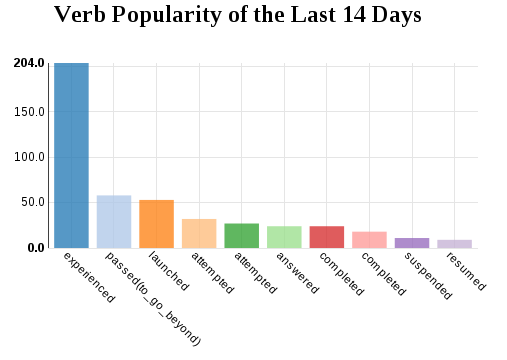
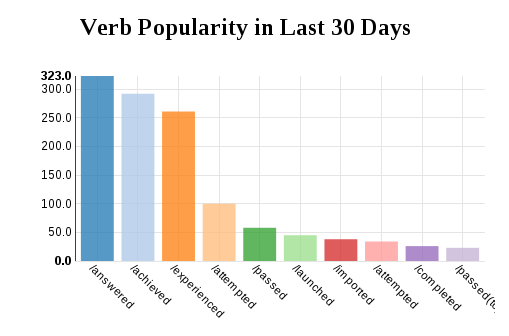
Updated README, added new example

diff --git a/livedata.html b/livedata.html
@@ -7,7 +7,7 @@
 		<script src='dist/xapidashboard.min.js'></script>
 
 		<style>
-			h1 {
+			h2 {
 				text-align: center;
 			}
 			#graphContainer {
@@ -20,12 +20,24 @@
 			function ready(){
 
 				var wrapper = ADL.XAPIWrapper;
-				var dash = new ADL.XAPIDashboard('#graphContainer svg');
+				var dash = new ADL.XAPIDashboard();
 				wrapper.changeConfig({'endpoint': 'https://lrs.adlnet.gov/xAPI/'});
 
+				var handle = setInterval(function(){
+					document.querySelector('span').innerHTML += '.';
+				}, 500);
+
 				var cutoff = new Date(Date.now()-1000*3600*24*30).toISOString();
-				dash.fetchAllStatements({since: cutoff}, wrapper, function(){
+				dash.fetchAllStatements({since: cutoff}, wrapper, function()
+				{
+					clearInterval(handle);
+					var container = document.querySelector('#graphContainer');
+					var header = document.createElement('h2');
+					header.innerHTML = 'Verb Popularity of the Last 30 Days';
+					container.insertBefore(header, container.firstChild);
+	
 					var chart = dash.createBarChart({
+						container: '#graphContainer svg',
 						groupBy: 'verb.id',
 						aggregate: ADL.count(),
 						post: function(data){
@@ -37,8 +49,8 @@
 							nvd3chart.xAxis.tickFormat(function(label){
 								var parts = /https?:\/\/.*?(\w+\.\w{2,3}).*(\/.+)$/.exec(label);
 								return parts.slice(1,3).join('');
+								//return /[^\/]+$/.exec(label)[0];
 							});
-							nvd3chart.margin({right:100});
 						}
 					});
 					chart.draw();
@@ -48,8 +60,8 @@
 		</script>
 	</head>
 	<body onload='ready()'>
+		<span id='status'>Fetching data</span>
 		<div id='graphContainer'>
-			<h1>Verb Popularity in Last 30 Days</h1>
 			<svg></svg>
 		</div>
 	</body>

diff --git a/src/dashboard.js b/src/dashboard.js
@@ -4,6 +4,12 @@
 	
 	var XAPIDashboard = function(container){
 		this.container = container;
+		try {
+			this.data = new ADL.Collection();
+		}
+		catch(e){
+			this.data = new ADL.CollectionSync();
+		}
 	}
 
 	XAPIDashboard.prototype.fetchAllStatements = function(query, wrapper, cb){
@@ -17,16 +23,10 @@
 		wrapper.getStatements(query, null, function getMore(r){
 			var response = JSON.parse(r.response);
 			
-			//Adds statements to a temp array so that addStatements is only called once
-			statementsArr.push.apply(statementsArr, response.statements);
-			
+			self.data.append(response.statements);
+
 			if(response.more){
 				wrapper.getStatements(null, response.more, getMore);
-			}
-			
-			else{
-				self.addStatements(statementsArr);
-				if(cb) cb(self.statements);
 			}
 		});
 	};
@@ -48,14 +48,7 @@
 				return;
 			}
 		}
-	
-		try{
-			this.data = new ADL.CollectionAsync(statementsArr, this.webworkerSrc);
-		}
-		catch(e){
-			this.data = new ADL.Collection(statementsArr);
-			console.log("Caught error on ADL.CollectionAsync creation, falling back to ADL.Collection ", e);
-		}
+		this.data.append(statementsArr);
 	};
 	
 	// default aggregator requires opts.xField

diff --git a/README.md b/README.md
@@ -11,6 +11,7 @@ Generating your first chart is easy. First, include the libraries:
 ```html
 <link rel='stylesheet' href='nvd3/nv.d3.css'></link>
 <script type="text/javascript" src="dist/xapidashboard.min.js"></script>
+<script type="text/javascript" src="dist/xapiCollection.min.js"></script>
 ```
 
 Next, you should fetch your data from an LRS. You can either retrieve them yourself, or use the
@@ -24,7 +25,7 @@ var dash = new ADL.XAPIDashboard(),
 
 window.onload = function(){
 	// get all statements made in the last two weeks
-	var query = {'since': new Date(Date.now() - 1000*60*60*24*14).toISOString()};
+	var query = {'since': new Date(Date.now() - 1000*60*60*24*30).toISOString()};
 	dash.fetchAllStatements(query, fetchDoneCallback);
 };
 ```
@@ -33,26 +34,32 @@ Now that your data is loaded, the real magic happens:
 
 ```javascript
 function fetchDoneCallback(){
-	dash.genBarGraph('#graphContainer svg', {
-		groupField: 'verb.id',
+	var chart = dash.createBarGraph({
+		container: '#graphContainer svg',
+		groupBy: 'verb.id',
+		aggregate: ADL.count(),
 		customize: function(chart){
-			chart.margin({'bottom': 100}).staggerLabels(false);
 			chart.xAxis.rotateLabels(45);
 			chart.xAxis.tickFormat(function(d){ return /[^\/]+$/.exec(d)[0]; });
 		}
 	});
+	chart.draw();
 }
 ```
 
-This generates a bar graph (`dash.genBarGraph`), places it in a particular place in the DOM
+This generates a bar graph (`dash.createBarGraph`), places it in a particular place in the DOM
 (`'#graphContainer svg'`), and populates it with your previously fetched data. Each bar
 corresponds with a unique value of a specified section in the statements (in this example,
-`groupField: 'verb.id'`), and each bar's height is the number of statements with that value.
+`groupBy: 'verb.id'`), and each bar's height is the number of statements with that value
+(e.g. `aggregate: ADL.count()`).
 
 An additional `customize` function is specified to format the graph labels. The customization
-is all done via the NVD3 chart library. In this case, we apply a bottom margin, tilt the labels
-45 degress so they don't overlap, and since we don't want the full verb id URIs, we strip off
-everything before the last slash.
+is all done via the NVD3 chart library. In this case, we tilt the labels 45 degress so they don't 
+overlap, and since we don't want the full verb id URIs, we strip off everything before the last
+slash.
+
+Finally, once the chart is configured, we call the `draw()` function to actually render the graph
+to the document. 
 
 After all that effort, the final result was worth it:
 
@@ -63,7 +70,8 @@ to do using the provided *Collection* methods.
 
 ## Processing the Data
 
-This package includes the *ADL.Collection* object, a powerful statement processor. Its usage is
+This package includes the *ADL.Collection* object, a powerful statement processor. It comes in two
+forms, *ADL.CollectionSync* and *ADL.CollectionAsync*. They have the same API, and their usage is
 simple. Just load your statements into it automatically like we did above:
 
 ```javascript
@@ -83,13 +91,15 @@ example, to get the list of activities performed in the set of statements, you c
 ```javascript
 var activities = statements
 	// remove statements with duplicate object ids
-	.selectDistinct('object.id')
+	.groupBy('object.id')
 	// and then pick out the ids
-	.transform(
-		ADL.Collection.getValue('object.id')
-	);
-console.log(activities.contents);
->>> ['objectId1','objectId2']
+	.select('group');
+
+// run the query, and what do you get?
+activities.exec(function(data){
+	console.log(data);
+});
+>>> [{group: 'act_id1'}, {group: 'act_id2'}]
 ```
 
 And if you wanted a list of the top 10 highest-scoring actors, you could run:
@@ -97,19 +107,23 @@ And if you wanted a list of the top 10 highest-scoring actors, you could run:
 ```javascript
 var actors = statements
 	// take all the statements for each actor
-	.groupBy('actor.name', function(subset){
-		// and find the highest score.raw
-		return subset.max('score.raw');
-	})
-	// then sort by those scores, high to low
-	.orderBy('result', 'descending')
-	// and pick out only the first (highest) 10 scores
-	.select(ADL.Collection.first(10));
-	
-console.log(groups.contents);
+	.groupBy('actor.name')
+	// get their best score
+	.max('result.score.raw')
+	// then sort the actors by those scores, high to low
+	.orderBy('max', 'descending')
+	// pick out only the first (highest) 10 scorers
+	.slice(0,10)
+	// and discard all the parts of the statements you won't be using
+	.select('group, max');
+
+// run the query, and what do you get?
+actors.exec(function(data){
+	console.log(data);
+});
 >>> 
-[{'groupValue': 'James Bond', 'result': 94},
- {'groupValue': 'Dr. No',     'result': 88},
+[{'group': 'James Bond', 'max': 94},
+ {'group': 'Dr. No',     'max': 88},
  ...
 ]
 ```
@@ -118,22 +132,24 @@ console.log(groups.contents);
 ## Putting It All Together
 
 So to finish our chart, we want to sort the bars by height, and for good measure limit the number
-of bars to 10. We can do all of this by providing a post-format hook to our `genBarChart` call:
+of bars to 10. We can do all of this by providing a post-format hook to our `createBarChart` call:
 
 ```javascript
-dash.genBarGraph('#graphContainer svg', {
-	groupField: 'verb.id',
+var chart = dash.createBarGraph({
+	container: '#graphContainer svg',
+	groupBy: 'verb.id',
 	post: function(data){
-		return data
+		return (new ADL.CollectionSync(data))
 			.orderBy('result.count', 'descending')
-			.select(ADL.Collection.first(10));
+			.select(ADL.Collection.first(10))
+			.contents;
 	},
 	customize: function(chart){
-		chart.margin({'bottom': 100}).staggerLabels(false);
 		chart.xAxis.rotateLabels(45);
 		chart.xAxis.tickFormat(function(d){ return /[^\/]+$/.exec(d)[0]; });
 	}
 });
+chart.draw();
 ```
 
 This function performs custom processing on the data before it is presented to the charting
